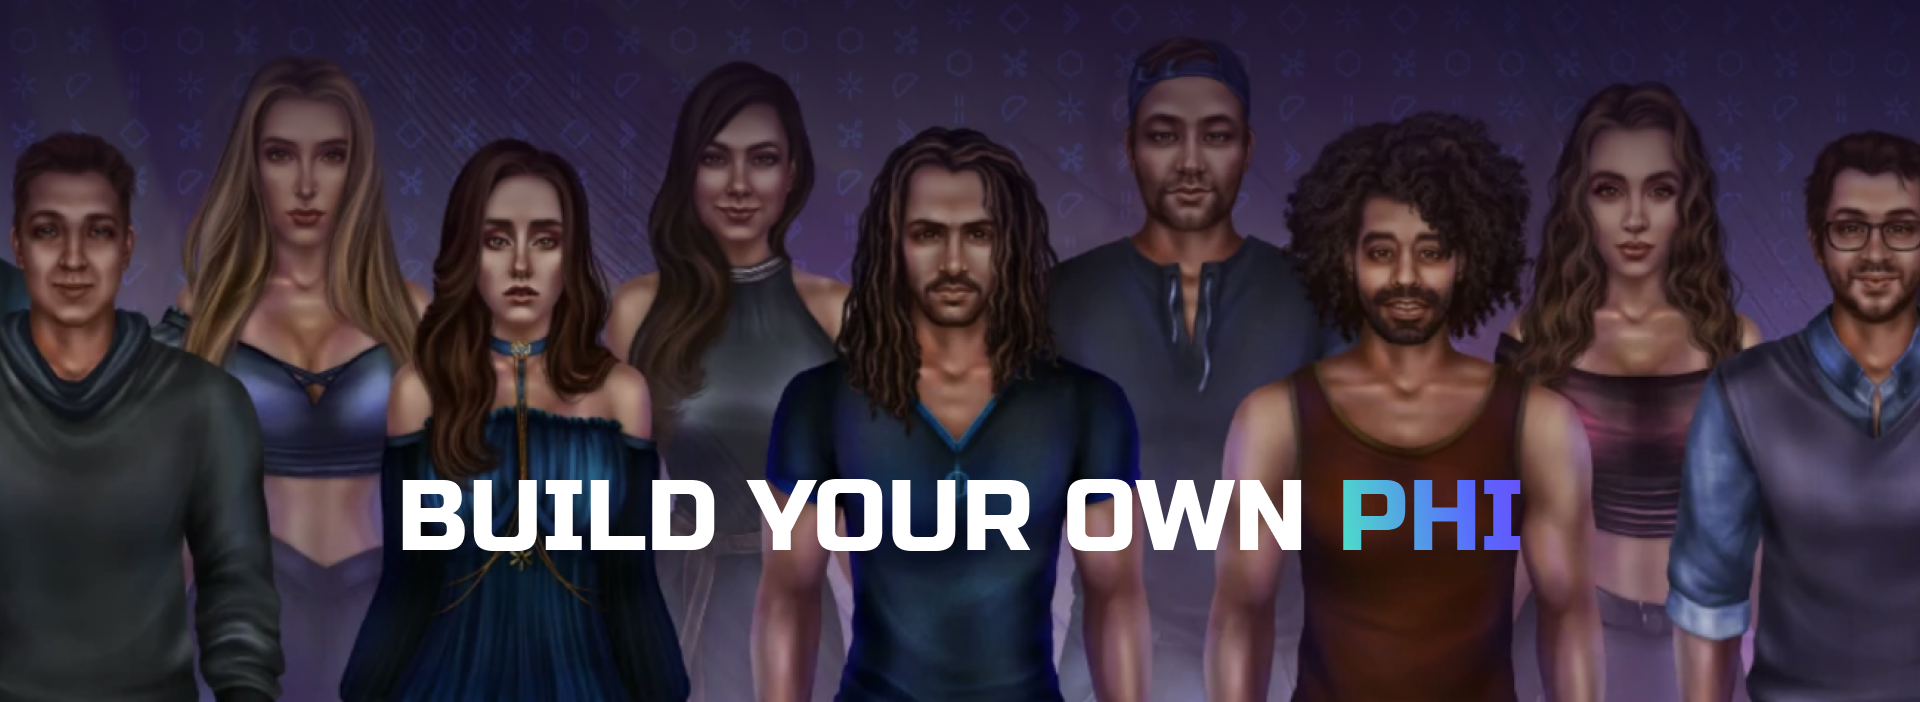
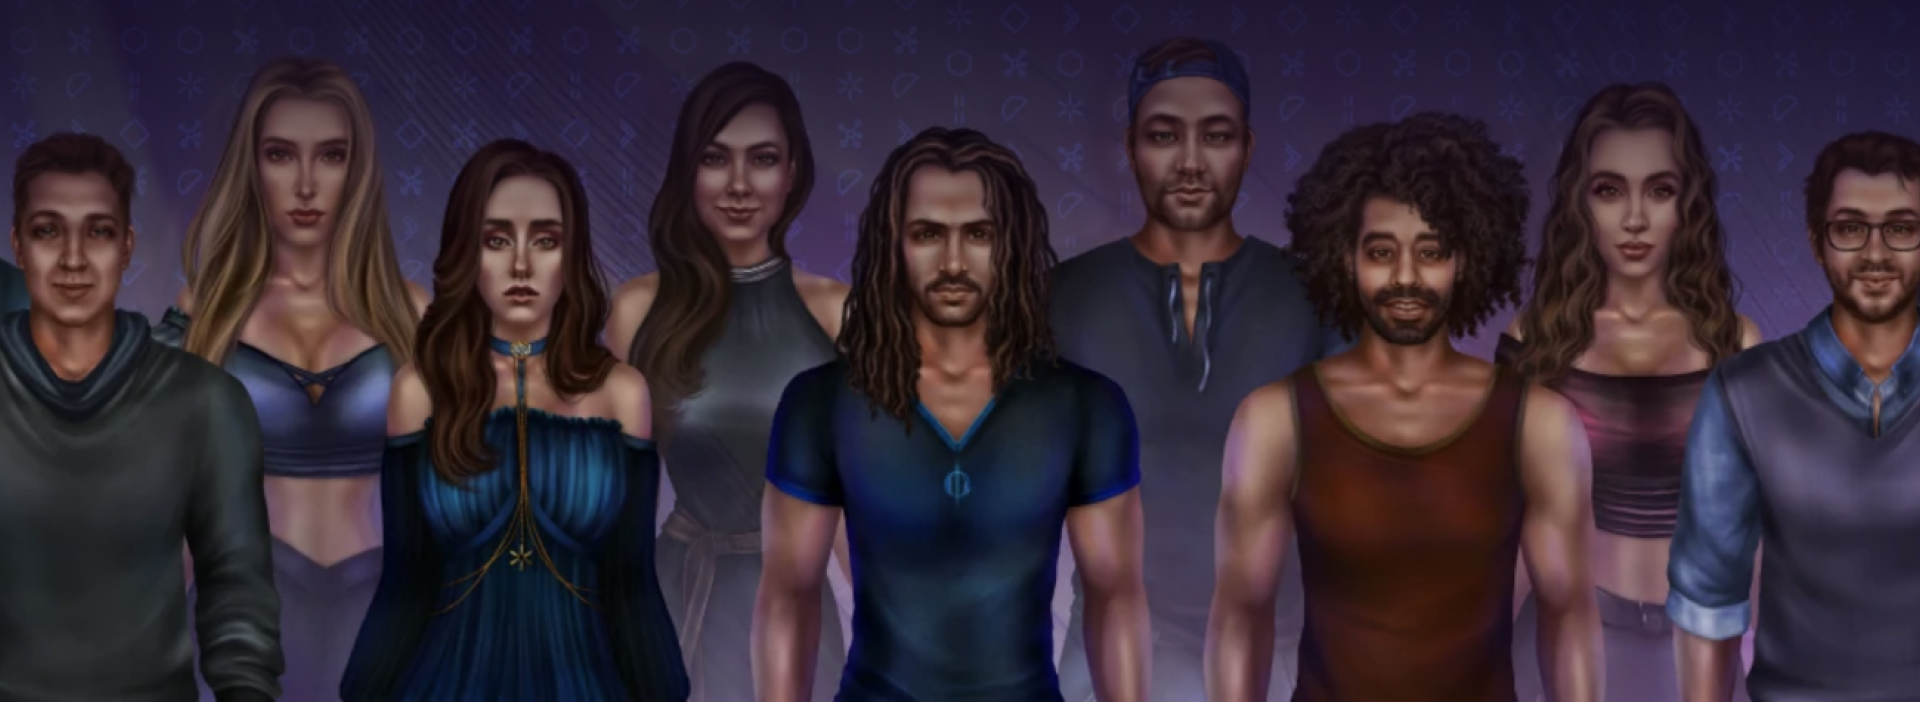
edits hero img

Changed region(s): [[0.1875, 0.6581, 0.8125, 0.8077]]

diff --git a/src/pages/playground/index.tsx b/src/pages/playground/index.tsx
@@ -56,7 +56,12 @@ export default function Playground() {
   return (
     <>
       {isLoading && <Loader />}
-      <img src="/playground-hero.png" alt="hero" />
+      <div className="relative">
+        <img src="/playground-hero.png" alt="hero" />
+        <div className="font-russo absolute text-[5vw] text-white text-center absolute bottom-[15%] left-[50%] translate-x-[-50%] w-100">
+          BUILD YOUR OWN <span className="gradient-text">PHI</span>
+        </div>
+      </div>
       <div className="playground-main bg-black px-[12px] py-[6px] w-100">
         <div className="grid grid-cols-1 pl-[18px] pr-[30px] lg:px-[150px] bg-black">
           {/* <h5 className="text-white">Explore</h5> */}

diff --git a/src/index.css b/src/index.css
@@ -354,3 +354,9 @@ input[type="number"]:-ms-input-placeholder {
   right: 0;
   filter: blur(120px);
 }
+
+.gradient-text {
+  background: linear-gradient(to right, #4de3c7, #5869ff, #7c33f2);
+  -webkit-background-clip: text;
+  -webkit-text-fill-color: transparent;
+}
